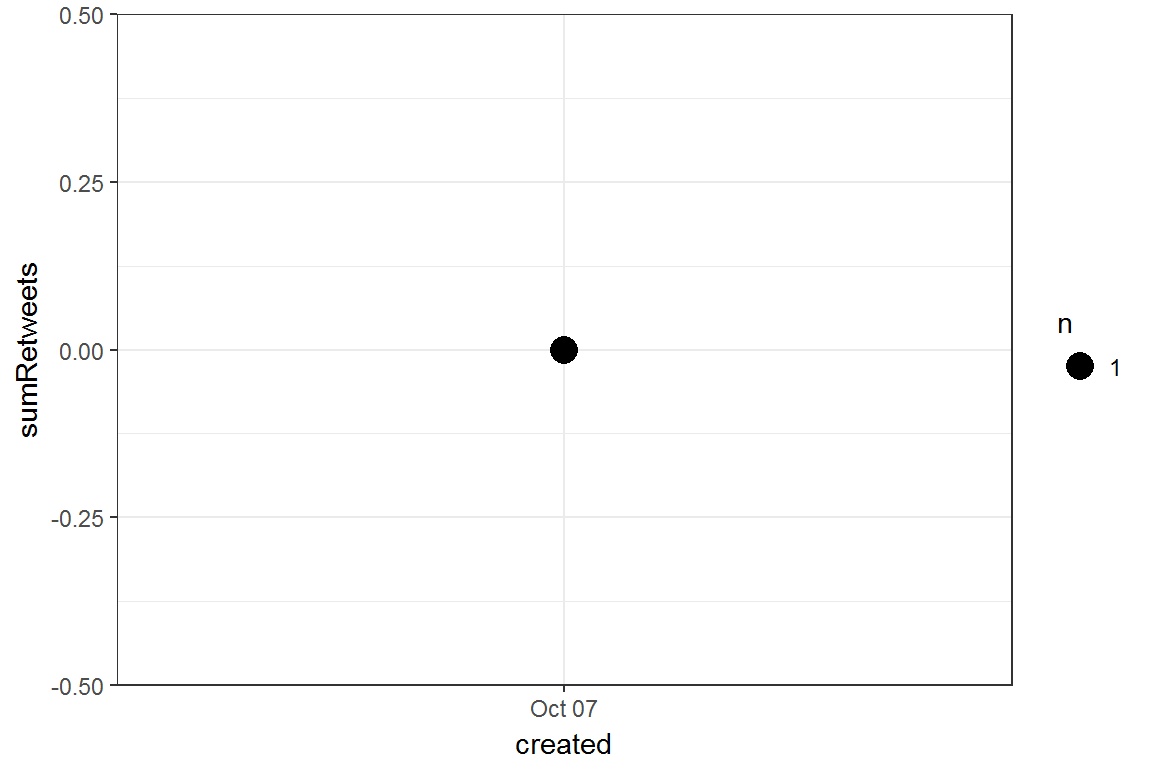
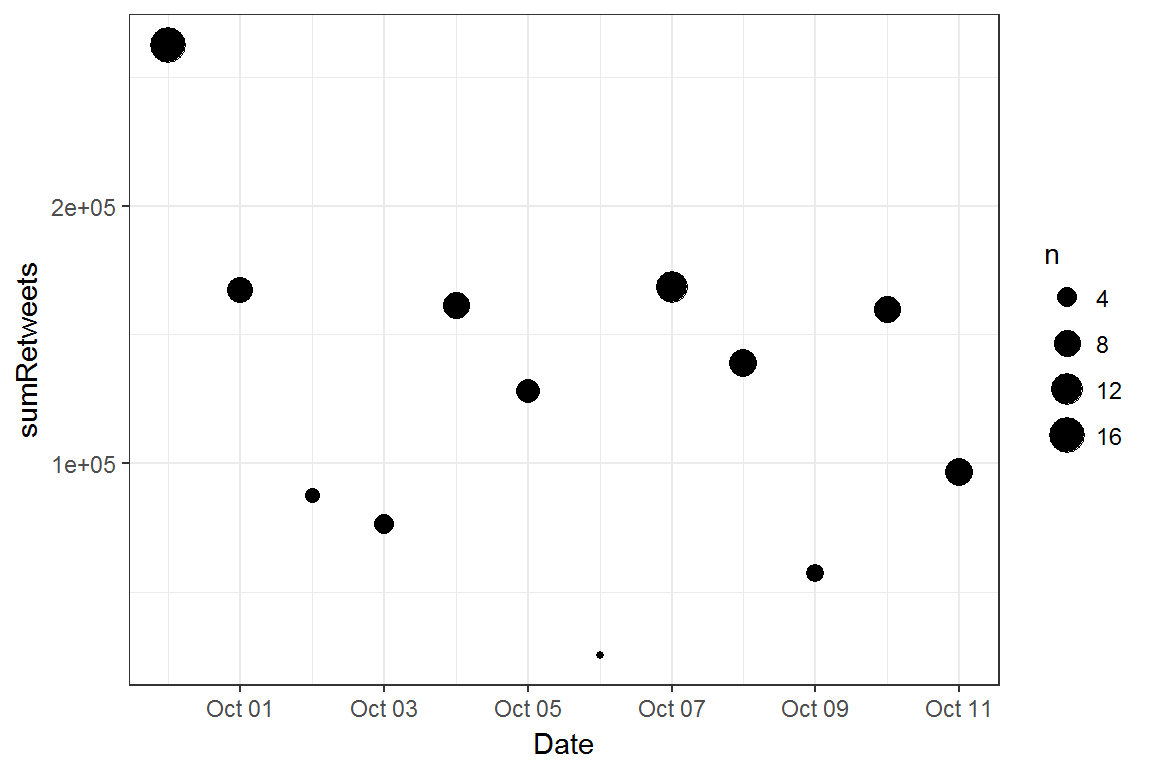
changed to a real twitter account to see if it will update

diff --git a/Twitter.html b/Twitter.html
@@ -208,21 +208,44 @@ $(document).ready(function () {
 
 
 <p><img src="Twitter_files/figure-html/unnamed-chunk-4-1.png" width="576" /><img src="Twitter_files/figure-html/unnamed-chunk-4-2.png" width="576" /></p>
-<table style="width:53%;">
-<colgroup>
-<col width="43%" />
-<col width="9%" />
-</colgroup>
+<table>
 <thead>
 <tr class="header">
-<th align="center">Tweet</th>
-<th align="center">Count</th>
+<th align="left">Date</th>
+<th align="left">Tweet</th>
+<th align="right">Count</th>
 </tr>
 </thead>
 <tbody>
 <tr class="odd">
-<td align="center">.<span class="citation">@Sling</span> Such a bummer ads interrupt mid-segment (incl. moment of zen) at an increased volume. Cancelling.</td>
-<td align="center">0</td>
+<td align="left">2017-10-11 13:55:44</td>
+<td align="left">With all of the Fake News coming out of NBC and the Networks, at what point is it appropriate to challenge their License? Bad for country!</td>
+<td align="right">9552</td>
+</tr>
+<tr class="even">
+<td align="left">2017-10-11 13:45:22</td>
+<td align="left">Fake <span class="citation">@NBCNews</span> made up a story that I wanted a “tenfold” increase in our U.S. nuclear arsenal. Pure fiction, made up to demean. NBC = CNN!</td>
+<td align="right">8628</td>
+</tr>
+<tr class="odd">
+<td align="left">2017-10-11 10:47:10</td>
+<td align="left">It is about time that Roger Goodell of the NFL is finally demanding that all players STAND for our great National Anthem-RESPECT OUR COUNTRY</td>
+<td align="right">11677</td>
+</tr>
+<tr class="even">
+<td align="left">2017-10-11 10:36:37</td>
+<td align="left">The Democrats want MASSIVE tax increases &amp; soft, crime producing borders.The Republicans want the biggest tax cut in history &amp; the WALL!</td>
+<td align="right">11789</td>
+</tr>
+<tr class="odd">
+<td align="left">2017-10-11 10:31:18</td>
+<td align="left">It would be really nice if the Fake News Media would report the virtually unprecedented Stock Market growth since the election.Need tax cuts</td>
+<td align="right">9541</td>
+</tr>
+<tr class="even">
+<td align="left">2017-10-11 10:26:50</td>
+<td align="left">…if Congress gives us the massive tax cuts (and reform) I am asking for, those numbers will grow by leaps and bounds. #MAGA</td>
+<td align="right">7111</td>
 </tr>
 </tbody>
 </table>
